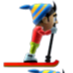
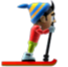
将红色方块改成小帅哥，并对小帅哥的一系列动作进行完善

diff --git a/src/player.cpp b/src/player.cpp
@@ -73,7 +73,7 @@ void Player::loadAnimationFrames() {
         QPixmap pixmap(fullPath);
         if (!pixmap.isNull()) {
             // 缩放到合适大小（30x30像素）
-            QPixmap scaledPixmap = pixmap.scaled(30, 30, Qt::KeepAspectRatio, Qt::SmoothTransformation);
+            QPixmap scaledPixmap = pixmap.scaled(200, 200, Qt::KeepAspectRatio, Qt::SmoothTransformation);
             m_animationFrames.append(scaledPixmap);
             DEBUG_LOG(QString("Loaded animation frame: %1").arg(filename));
         } else {
@@ -96,14 +96,15 @@ int Player::getCurrentAnimationRange() const {
         // 跳跃摔倒再站起：image16-25 (索引15-24)
         return 15 + (m_currentFrame % 10); // 10帧循环
     } else if (!isOnGround()) {
-        // 后空翻平稳落地：image26-30 (索引25-29)
-        return 25 + (m_currentFrame % 5); // 5帧循环
+        // 在空中：固定显示 image25 (索引24)
+        return 24; // 不管是否空翻都显示第25张图片
     } else {
         // 地面滑行：image1-13 (索引0-12)
         return m_currentFrame % 13; // 13帧循环
     }
 }
 
+// 修改updateAnimation方法
 void Player::updateAnimation() {
     if (m_animationLoaded && !m_animationFrames.isEmpty()) {
         // 简单递增帧计数器
@@ -369,9 +370,9 @@ void Player::paint(QPainter *painter, const QStyleOptionGraphicsItem *option, QW
         painter->drawPixmap(r.toRect(), currentPixmap);
 
         // 如果需要，仍然可以绘制底部绿色边框作为调试标识
-        QPen greenPen(Qt::green, 2);
-        painter->setPen(greenPen);
-        painter->drawLine(r.bottomLeft(), r.bottomRight());
+        //QPen greenPen(Qt::green, 2);
+        //painter->setPen(greenPen);
+        //painter->drawLine(r.bottomLeft(), r.bottomRight());
 
     } else {
         // 如果动画未加载，回退到原始的红色方块绘制
